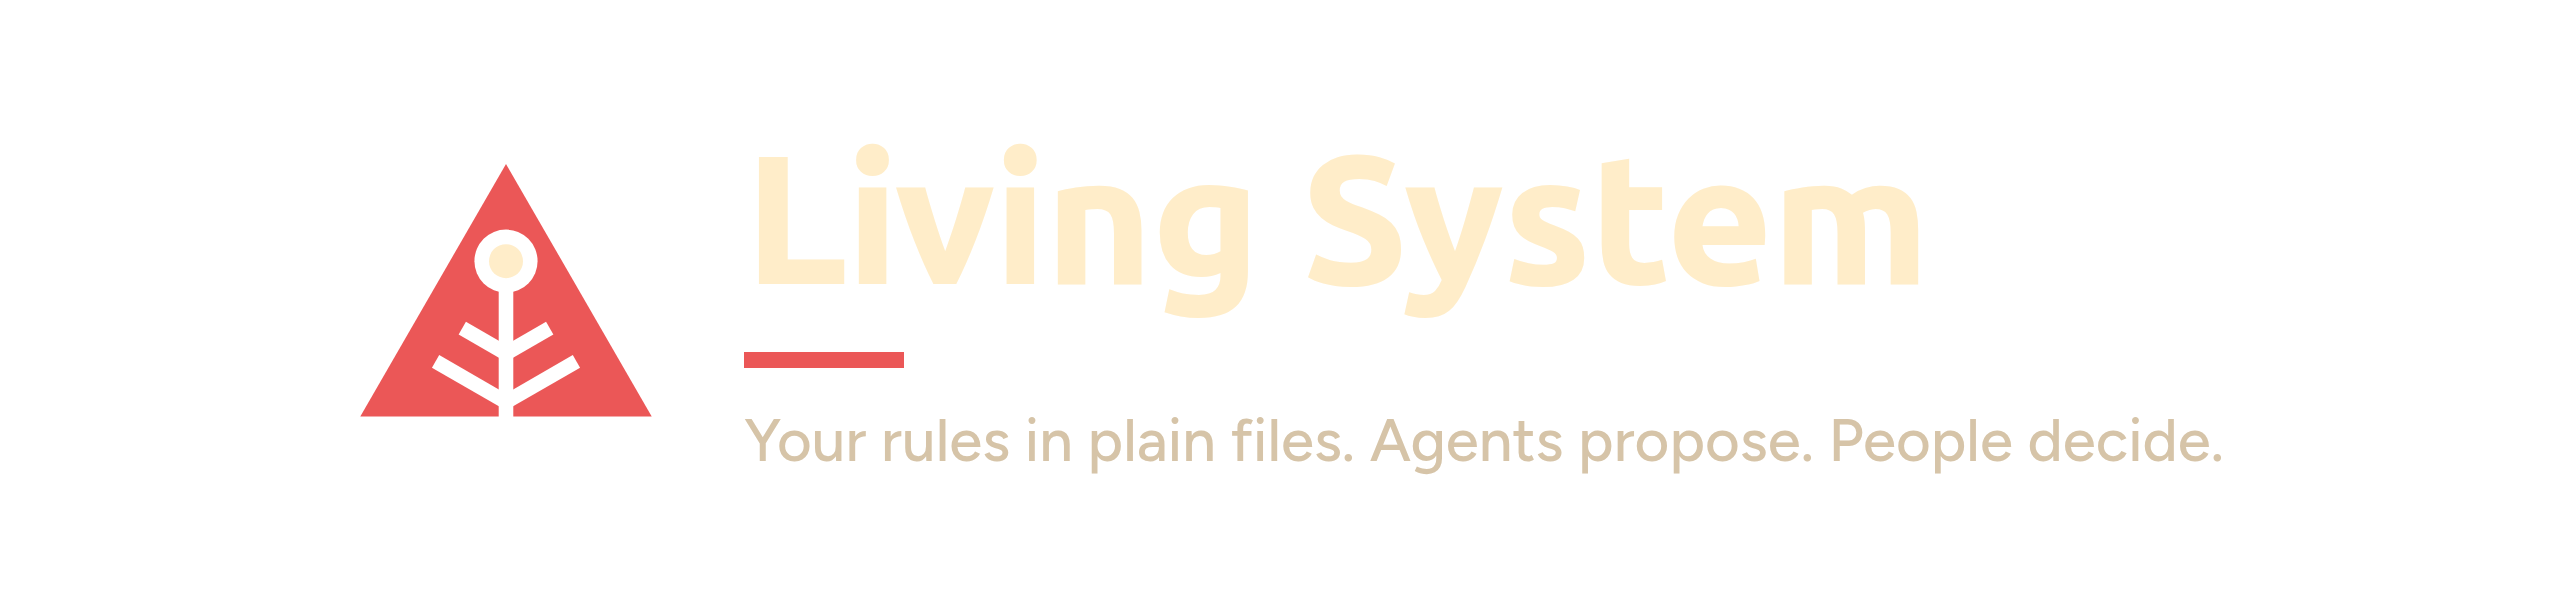
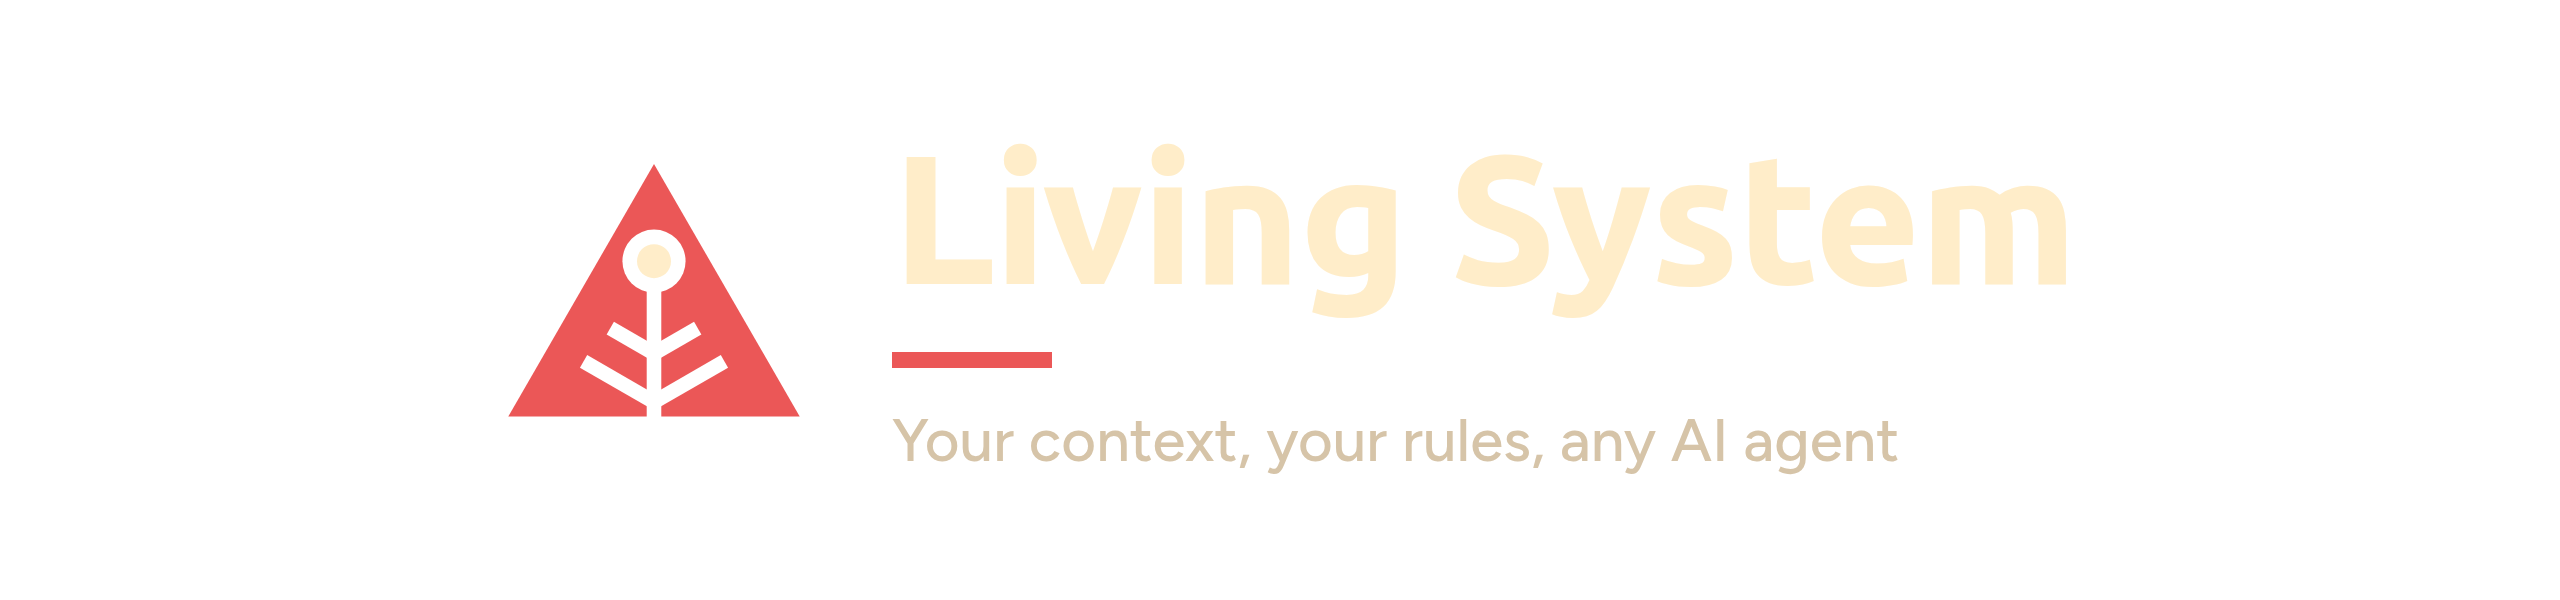
positioning: your context, your rules, any AI agent

Changed region(s): [[0.125, 0.24, 0.875, 0.78]]

diff --git a/README.md b/README.md
@@ -13,9 +13,9 @@
 [![License](https://img.shields.io/badge/license-MPL--2.0-161616?style=flat-square)](LICENSE)
 [![Status](https://img.shields.io/badge/status-experimental-D6C4A8?style=flat-square)](#limitations)
 
-**Your AI agents remember your rules, and you decide what changes.**<br>
-Write your rules and working knowledge down once. Your agent reads them every session,<br>
-suggests changes instead of making them, and waits for your yes. Free, and it all stays on your computer.
+Keep your rules, knowledge, goals and workflows in plain files you own.<br>
+Switch between Claude Code, Codex, Hermes or a local model without starting over,<br>
+and decide yourself what changes. Free, open source, and it all stays on your computer.
 
 [Start in one sentence](#start-in-one-sentence) · [Quick start](#quick-start) · [Works with](#works-with) · [How it works](#how-it-works) · [Features](#features) · [Docs](docs/README.md) · [Help test it](#help-test-it) · [Discussions](https://github.com/the-trinity-tribe/living-system/discussions)
 
@@ -44,12 +44,12 @@ We tried this sentence in fresh Claude Code and Codex sessions ([results](demo/W
 
 ## What changes for you
 
-Every AI session usually starts from zero: you explain the same rules again, and after a few weeks nobody can say which version of a rule is current or who agreed to it.
+Most AI tools keep their own memory of you: locked inside one product, growing on its own, and hard to check. Living System turns that around.
 
-- **Say it once, every session knows.** Your rules, preferences and working knowledge live in plain files your agent reads at the start of every session.
-- **Nothing changes without your yes.** Your agent writes a proposal instead of editing a rule. You approve, reject or defer it, and a record shows if an approved rule was changed later.
+- **Own it, take it anywhere.** Your rules, knowledge, goals and workflows live in plain files on your own computer, not inside one AI product. Use them with Claude Code, Codex, Hermes or a local model, for work or personal projects, and switch without starting over.
+- **Lean and true, not bloated.** Instead of a memory that keeps growing and filling the context window, you keep a curated set of files, and a routing guide points your agent to just what a task needs. Your agent suggests changes instead of making them; you decide what becomes true, and a record shows any later change.
+- **Grows with you.** Optional [modules](#optional-modules) for weekly updates, meeting notes, research, client intake, content and careful multi-step work, plus learning, coaching and [team workspaces](#knowledge-that-outlives-a-role).
 - **More freedom for your agent, one step at a time.** Let it do more in one kind of work once it has earned it, and take that back in one step. Sending, publishing, spending and deleting always wait for you.
-- **Knowledge that stays when people move on.** A shared company workspace next to private personal ones, with a gentle reading path for the next person.
 - **Calm, not another dashboard.** Ask what needs you, catch up after time away, park an idea without losing focus. No tracking, no productivity scores.
 
 No server, no account, no tie to one AI vendor or model: just Python's standard library and Markdown files.

diff --git a/CHANGELOG.md b/CHANGELOG.md
@@ -4,6 +4,7 @@ All notable changes. Dates are when a version was prepared. Versions before 1.0 
 
 ## Unreleased
 
+- New headline for the whole system: "Your context, your rules, any AI agent". The README banner and benefits now lead with owning your context, switching agents without starting over, a lean context instead of growing memory, and modules that grow with you; the human review is the proof of trust.
 - Start in one sentence: paste one sentence into Claude Code, Codex, Hermes or another agent in an empty folder and it downloads Living System and starts the guided setup (tested live in Claude Code and Codex). Added to the README, INSTALL, TESTING, the release notes and the pitch page, and the README now leads with benefits.
 - Works with more agents, stated honestly: the README, INSTALL and the AI tools guide now cover Hermes Agent, other agents that read `AGENTS.md`, and local models, with what was checked (Hermes: source code and one live question) and what was not. The AI tools guide also corrects the size of `AGENTS.md` (about 29 KB, under Codex's 32 KiB limit).
 - README redesigned: a compact header with badges and links, the demo first, then quick start, one "how it works" diagram and features as text and tables. The slide-style feature images are replaced by three small diagrams with dark and light variants.
